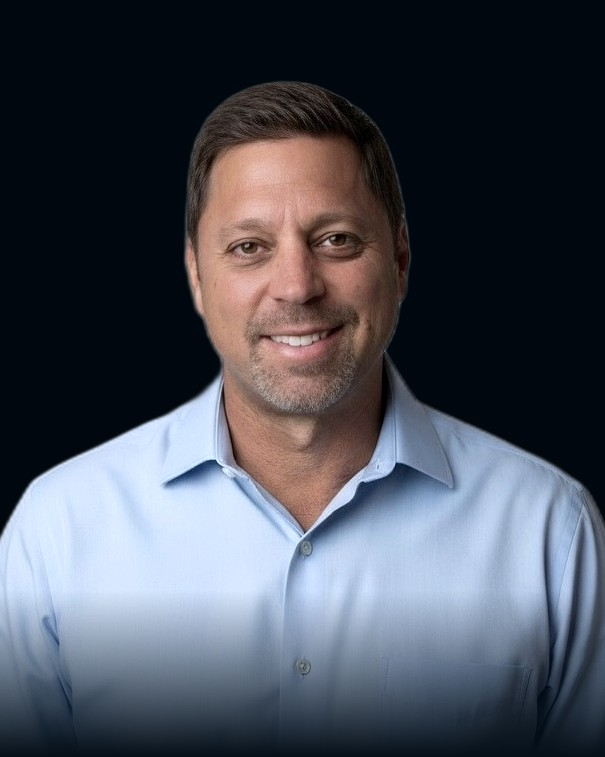
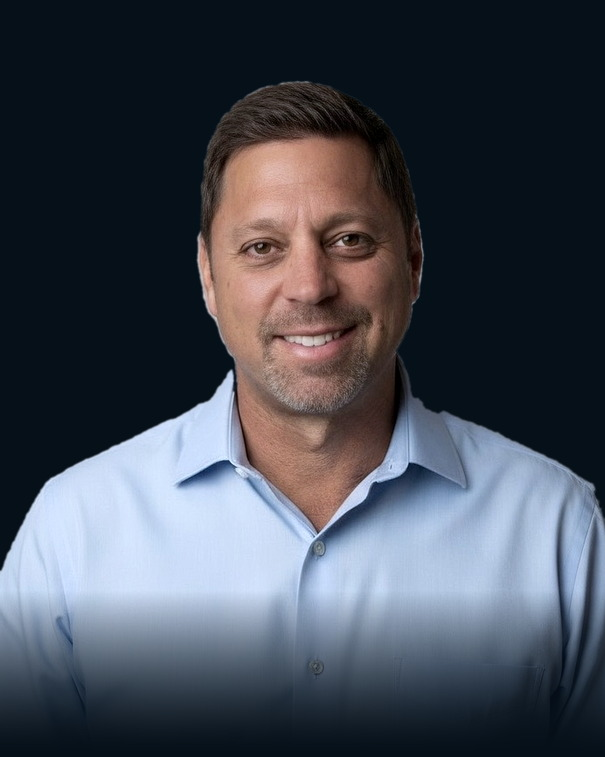
AAA contrast, listings button, new headshot
Contrast. Audited every muted colour against its actual composited
background rather than assuming --ink. --slate measured 7.02:1 on the page
ground but only 6.13-6.35:1 on the raised --ink-2 panels and the nav's
active cell, so small mono labels sat short of AAA. Lifted --slate
#89A0AD -> #96ABB6, which clears 7:1 on every background in use. Nothing
was below AA beforehand; this is an AA->AAA lift. Now 0 of 263 text nodes
across the three page types fall below 7:1, worst case 7.01.

Listings button in the empty right-hand band of THE PRACTICE column,
linking to the team's listings on kymcoyle.com. New tab with
rel=noopener noreferrer, outbound arrow, screen-reader note that it opens
offsite, 215x49 tap target. Added url to the existing worksFor entity in
the homepage JSON-LD rather than inventing a property — it gives the
already-named employer its canonical URL.

Fixed the wordmark wrapping to two lines below 430px.

Replaced headshot.jpg from the new session. Picked Headshot1 over
Headshot2 on resolution (2580x1882 vs 1184x864), separation against the
dark ground (light shirt vs charcoal jacket), and a far cleaner key
(background chroma 5-8 against the shirt's 26-46). Processed to the
existing recipe: background keyed and composited on ink navy, 4:5 crop on
the face, saturation 78%, contrast 1.06, red 0.97, blue 1.06, bottom 22%
faded into the ground. 605x757 baseline JPEG. Crop, key, grade and fade
only — no retouching of any facial feature.

Changed region(s): [[0.0, 0.0911, 1.0, 0.9723], [0.0, 0.5773, 0.2083, 0.7596]]

diff --git a/style.css b/style.css
@@ -4,7 +4,7 @@
   --pb:#A1EBFF;
   --pb-mid:#4FB0D4;
   --paper:#EAF4FA;
-  --slate:#89A0AD;
+  --slate:#96ABB6;
   --hair:rgba(161,235,255,.16);
 
   /* ---- TYPE SCALE (single source of truth — see HANDOFF.md) ---- */
@@ -51,6 +51,11 @@ nav .wrap{max-width:64rem;display:flex;align-items:stretch;justify-content:space
   .tb-links li{flex:1}
   .tb-links a{flex:1;min-width:0;align-items:center;border-left:0;border-right:1px solid var(--hair);padding:.72rem .4rem}
   .tb-links li:last-child a{border-right:0}
+}
+@media(max-width:430px){
+  /* keep the wordmark on one line; the credential label drops beneath it */
+  .tb-brand{flex-direction:column;align-items:flex-start;gap:.35rem}
+  .tb-brand .nm{white-space:nowrap}
 }
 
 /* ---- datum: the page baseline ---- */
@@ -315,3 +320,16 @@ footer .wrap{max-width:64rem;display:flex;justify-content:space-between;gap:2rem
   .home .timeline li{grid-template-columns:1fr;gap:.35rem}
 }
 .home footer .wrap{display:flex;justify-content:space-between;gap:2rem;flex-wrap:wrap}
+
+/* external link to the team's listings (leaves the site by design) */
+.home .listings-btn{display:inline-flex;align-items:center;gap:.7rem;align-self:flex-end;margin-top:1.7rem;
+  font-family:'JetBrains Mono',monospace;font-size:var(--l1);letter-spacing:.16em;text-transform:uppercase;
+  color:var(--pb);text-decoration:none;border:1px solid var(--pb);padding:.85rem 1.2rem;
+  background:linear-gradient(rgba(161,235,255,.07),transparent);
+  transition:background .2s,color .2s,box-shadow .2s}
+.home .listings-btn:hover{background:var(--pb);color:var(--ink);box-shadow:0 0 0 3px rgba(161,235,255,.14)}
+.home .listings-btn:focus-visible{outline:2px solid var(--pb);outline-offset:3px}
+.home .listings-btn .ext{width:.68rem;height:.68rem;flex:none;fill:none;stroke:currentColor;stroke-width:1.7;
+  stroke-linecap:round;stroke-linejoin:round}
+.vh{position:absolute;width:1px;height:1px;padding:0;margin:-1px;overflow:hidden;clip:rect(0 0 0 0);white-space:nowrap;border:0}
+@media(max-width:800px){.home .listings-btn{align-self:flex-start}}

diff --git a/index.html b/index.html
@@ -19,7 +19,10 @@
   "@context": "https://schema.org",
   "@type": "Person",
   "name": "Jesse Battle IV",
-  "jobTitle": ["REALTOR", "Certified General Contractor"],
+  "jobTitle": [
+    "REALTOR",
+    "Certified General Contractor"
+  ],
   "url": "https://jessebattle.com/",
   "email": "jessebattleiv@gmail.com",
   "telephone": "(727) 487-3200",
@@ -48,7 +51,8 @@
     "areaServed": {
       "@type": "AdministrativeArea",
       "name": "Pinellas County, Florida"
-    }
+    },
+    "url": "https://kymcoyle.com/"
   },
   "owns": {
     "@type": "Organization",
@@ -130,6 +134,11 @@
         <dt>Team</dt><dd>Team Kym Coyle</dd>
         <dt>Market</dt><dd>Pinellas County</dd>
       </dl>
+      <a class="listings-btn" href="https://kymcoyle.com/properties" target="_blank" rel="noopener noreferrer">
+        View Our Listings
+        <svg class="ext" viewBox="0 0 16 16" aria-hidden="true" focusable="false"><path d="M6 3h7v7M13 3 3.5 12.5"/></svg>
+        <span class="vh">(opens on kymcoyle.com in a new tab)</span>
+      </a>
       <div class="practice-mark">
         <img src="pelican.png" alt="Jesse Battle IV, St. Petersburg real estate">
         <p class="specialties">
